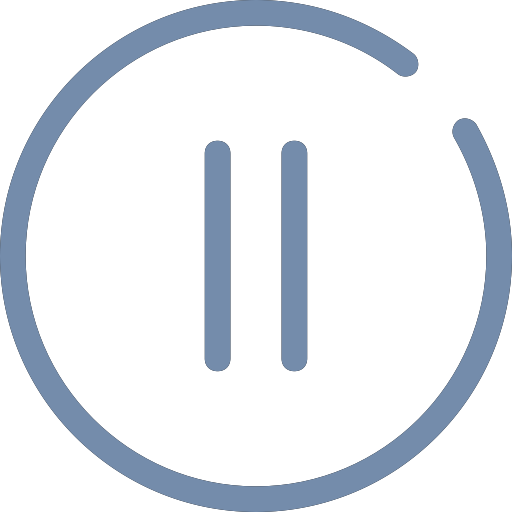
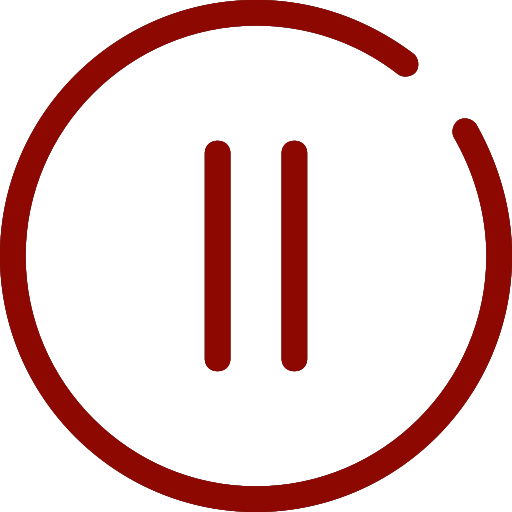
UI tweaks

Changed region(s): [[0.0, 0.0, 1.0, 1.0], [0.5312, 0.25, 0.625, 0.75], [0.375, 0.25, 0.4688, 0.75]]

diff --git a/app/tracks.js b/app/tracks.js
@@ -14,6 +14,7 @@ import TracksStore from './stores/tracks';
 import Track from './components/track';
 import MiniPlayer from './components/player';
 import Spinner from 'react-native-spinkit';
+import colors from './config/colors';
 
 @observer
 export default class tracks extends Component {
@@ -35,33 +36,40 @@ export default class tracks extends Component {
         const {tracks, isLoading} = TracksStore;
 
         const track_view = isLoading ? (
-                <View style={{flex:1, justifyContent: 'center', alignItems: 'center'}}>
-                    <Spinner isVisible={true} size={30} type="Wave" color="#748CAB"/>
-                </View>
-            ) : (
-                <ScrollView style={styles.container}>
-                    {tracks.map(track => {
-                        return (<Track key={track.id} track={track}/>)
-                    })}
-                </ScrollView>
-            );
-
-        return (
-            <View style={styles.container}>
-                <Image
-                    style={styles.artwork}
-                    source={{uri: state.params.artwork}}
-                >
+                <View style={styles.container}>
                     <Image
                         style={styles.artwork}
-                        source={require('../assets/images/row_bag.png')}
+                        source={{uri: state.params.artwork}}
                     >
+                        <Image
+                            style={styles.artwork}
+                            source={require('../assets/images/row_bag.png')}/>
                     </Image>
-                </Image>
-                {track_view}
-                <MiniPlayer/>
-            </View>
-        );
+                    <View style={{flex:1, justifyContent: 'center', alignItems: 'center'}}>
+                        <Spinner isVisible={true} size={30} type="Wave" color={colors.border}/>
+                    </View>
+                    <MiniPlayer/>
+                </View>
+            ) : (
+                <View style={styles.container}>
+                    <ScrollView style={styles.container}>
+                        <Image
+                            style={styles.artwork}
+                            source={{uri: state.params.artwork}}
+                        >
+                            <Image
+                                style={styles.artwork}
+                                source={require('../assets/images/row_bag.png')}/>
+                        </Image>
+                        {tracks.map(track => {
+                            return (<Track key={track.id} track={track}/>)
+                        })}
+                    </ScrollView>
+                    <MiniPlayer/>
+                </View>
+            );
+
+        return track_view;
     }
 
     componentWillUnmount() {
@@ -71,7 +79,6 @@ export default class tracks extends Component {
 }
 
 var {height, width} = Dimensions.get('window');
-import colors from './config/colors';
 const styles = StyleSheet.create({
     container: {
         flex: 1,

diff --git a/app/components/player.js b/app/components/player.js
@@ -98,6 +98,7 @@ export default class player extends Component {
 
 }
 var {height, width} = Dimensions.get('window');
+import colors from '../config/colors';
 const styles = StyleSheet.create({
     container: {
         position: 'absolute',
@@ -105,15 +106,15 @@ const styles = StyleSheet.create({
         flexDirection: 'row',
         left: 0,
         bottom: 0,
-        height: 80,
+        height: 85,
         width: width,
         padding: 10,
-        backgroundColor: '#1D2D44',
+        backgroundColor: colors.player.bg,
         justifyContent: 'center',
         alignItems: 'center'
     },
     text: {
-        color: '#748CAB'
+        color: colors.player.text
     },
     playback: {
         flex: 1,
@@ -141,14 +142,13 @@ var sliderStyles = StyleSheet.create({
     },
     track: {
         height: 2,
-        backgroundColor: '#3E5C76',
+        backgroundColor: colors.border,
     },
     thumb: {
         width: 12,
         height: 12,
-        backgroundColor: '#748CAB',
+        backgroundColor: colors.player.text,
         borderRadius: 12 / 2,
-        backgroundColor: '#748CAB',
         shadowOffset: {width: 0, height: 0},
         marginTop: 1,
         shadowRadius: 2,

diff --git a/app/components/mixtape.js b/app/components/mixtape.js
@@ -24,8 +24,11 @@ export default class mixtape extends Component {
                     onPress={() => {navigate('Tracks', { id: details.id, title: details.title, artwork: details.artwork_url })}}>
                     <Image
                         style={styles.artwork}
-                        source={{uri: details.artwork_url}}
-                    />
+                        source={{uri: details.artwork_url}}>
+                        <Image
+                            style={styles.artwork}
+                            source={require('../../assets/images/row_bag.png')} />
+                    </Image>
                 </TouchableOpacity>
                 <Text style={styles.title}>{details.title}</Text>
             </View>
@@ -41,12 +44,14 @@ const styles = StyleSheet.create({
         marginBottom: 10,
         marginRight: 10,
         flex: 1,
-        backgroundColor: 'transparent'
+        backgroundColor: 'white'
     },
     title: {
-        marginTop: 5,
+        marginLeft: 5,
+        marginTop: -20,
         fontSize: 14,
-        color: colors.subtitle
+        backgroundColor: 'transparent',
+        color: colors.main_bg
     },
     artwork: {
         width: 150,

diff --git a/app/home.js b/app/home.js
@@ -13,6 +13,7 @@ import CollectionStore from './stores/collections';
 import Collection from './components/collection';
 import MiniPlayer from './components/player';
 import Spinner from 'react-native-spinkit';
+import colors from './config/colors';
 
 @observer
 export default class home extends Component {
@@ -37,7 +38,7 @@ export default class home extends Component {
 
         const list = isLoading ? (
             <View style={{flex:1, justifyContent: 'center', alignItems: 'center'}}>
-                <Spinner isVisible={true} size={30} type="Wave" color="#748CAB"/>
+                <Spinner isVisible={true} size={30} type="Wave" color={colors.border}/>
             </View>
         ) : (
             <ListView
@@ -59,7 +60,6 @@ export default class home extends Component {
     }
 }
 
-import colors from './config/colors';
 const styles = StyleSheet.create({
     container: {
         flex: 1,
@@ -77,7 +77,7 @@ const styles = StyleSheet.create({
         marginBottom: 10
     },
     collectionTitle: {
-        fontSize: 20,
+        fontSize: 25,
         color: colors.title
     }
 });

diff --git a/app/components/track.js b/app/components/track.js
@@ -41,23 +41,23 @@ export default class track extends Component {
 
 }
 
-import color from '../config/colors';
+import colors from '../config/colors';
 const styles = StyleSheet.create({
     container: {
         flex: 1,
-        padding: 20,
+        padding: 10,
         backgroundColor: 'transparent',
         borderBottomWidth: 1,
-        borderBottomColor: color.title
+        borderBottomColor: colors.border
     },
     title: {
         fontSize: 14,
-        color: color.title
+        color: colors.title
     },
     artist: {
         fontSize: 12,
         marginTop: 5,
-        color: color.subtitle
+        color: colors.subtitle
     },
     artwork: {
         marginRight: 10,

diff --git a/app/config/colors.js b/app/config/colors.js
@@ -3,10 +3,11 @@
  */
 export default {
     main_bg: '#DFDFDF',
-    title: '#2F3061',
+    title: '#8D0801',
     subtitle: '#343434',
+    border: '#8D0801',
     player: {
-        bg: '#2F3061',
-        text: '#DFDFDF'
+        bg: '#D1D1D1',
+        text: '#8D0801'
     }
 }
